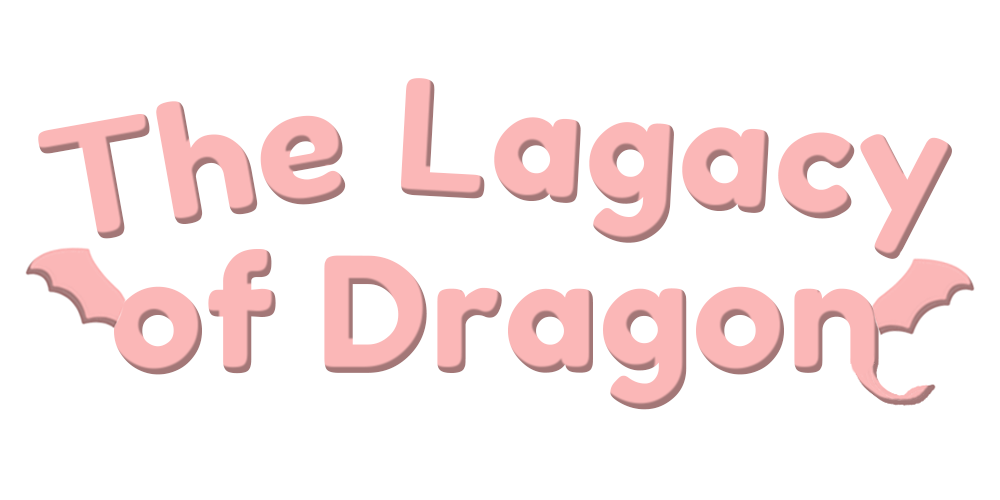
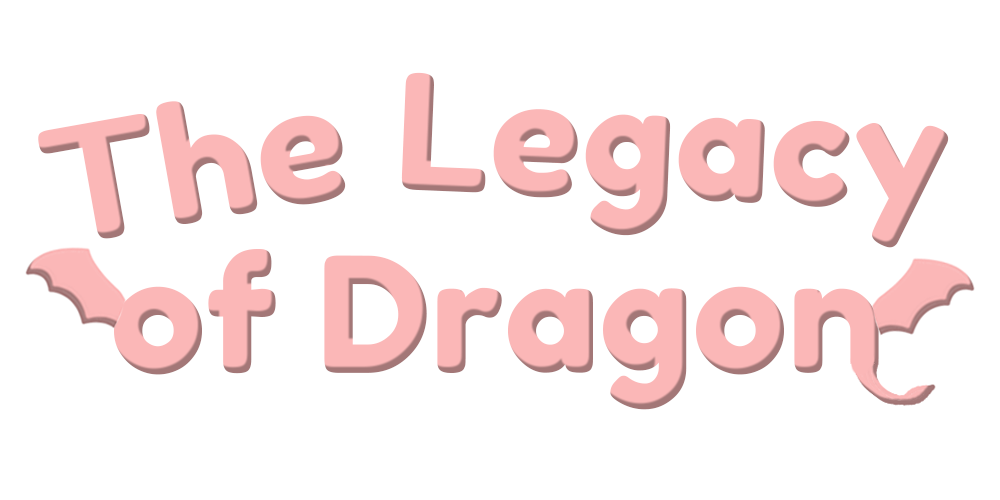
메인메뉴 색이랑 철자 그리고 게임오버 등등 수정함

Changed region(s): [[0.403, 0.21, 0.961, 0.54], [0.403, 0.15, 0.434, 0.18]]

diff --git a/Lagacy_of_Dragon/Main_menu.cpp b/Lagacy_of_Dragon/Main_menu.cpp
@@ -1,27 +1,27 @@
 #include "Main_menu.h"
 
 void Main_menu::main_UI() {
-	clear_background(255);
+	clear_background(HexColor{0xffcf69ff});
 	draw_image(Title, title_x, title_y);
 
 	apply_scale(0.5);
 	draw_image(Gameplay_button, mainmenu_x, gameplay_y);
-	draw_image(Setting_button, mainmenu_x, setting_y);
+	draw_image(Howtoplay_button, mainmenu_x, setting_y);
 	draw_image(Credit_button, mainmenu_x, credit_y);
 	draw_image(Exit_button, mainmenu_x, exit_y);
 }
 
 bool Main_menu::is_gameplay() {
-	return (get_mouse_x() > click_mainmenu_x && get_mouse_x() < click_mainmenu_x + click_gap_x && get_mouse_y() > click_gameplay_y && get_mouse_y() < click_gameplay_y + click_gap_y) && MouseIsPressed;
+	return (get_mouse_x() > click_mainmenu_x && get_mouse_x() < click_mainmenu_x + click_gap_x && get_mouse_y() > click_gameplay_y && get_mouse_y() < click_gameplay_y + click_gap_y);
 }
 bool Main_menu::is_setting() {
-	return (get_mouse_x() > click_mainmenu_x && get_mouse_x() < click_mainmenu_x + click_gap_x && get_mouse_y() > click_setting_y && get_mouse_y() < click_setting_y + click_gap_y) && MouseIsPressed;
+	return (get_mouse_x() > click_mainmenu_x && get_mouse_x() < click_mainmenu_x + click_gap_x && get_mouse_y() > click_setting_y && get_mouse_y() < click_setting_y + click_gap_y);
 }
 bool Main_menu::is_credit() {
-	return (get_mouse_x() > click_mainmenu_x && get_mouse_x() < click_mainmenu_x + click_gap_x && get_mouse_y() > click_credit_y && get_mouse_y() < click_credit_y + click_gap_y) && MouseIsPressed;
+	return (get_mouse_x() > click_mainmenu_x && get_mouse_x() < click_mainmenu_x + click_gap_x && get_mouse_y() > click_credit_y && get_mouse_y() < click_credit_y + click_gap_y);
 }
 bool Main_menu::is_exit() {
-	return (get_mouse_x() > click_mainmenu_x && get_mouse_x() < click_mainmenu_x + click_gap_x && get_mouse_y() > click_exit_y && get_mouse_y() < click_exit_y + click_gap_y) && MouseIsPressed;
+	return (get_mouse_x() > click_mainmenu_x && get_mouse_x() < click_mainmenu_x + click_gap_x && get_mouse_y() > click_exit_y && get_mouse_y() < click_exit_y + click_gap_y);
 }
 void Main_menu::in_setting()
 {

diff --git a/Lagacy_of_Dragon/main.cpp b/Lagacy_of_Dragon/main.cpp
@@ -162,6 +162,9 @@ int main()
 		scene_timer += DeltaTime;
 		boss3_timers += DeltaTime;
 		update_window();
+
+		cout << "x:" << get_mouse_x() << endl;
+		cout << "y:" << get_mouse_y() << endl;
 	
 		//Game_start
 		//DIGIEPN LOGO
@@ -189,24 +192,34 @@ int main()
 		{
 			main_menu.main_UI();
 
+
 			//Gameplay
 			if (main_menu.is_gameplay())
 			{
+				draw_image(Gameplay_button_on, mainmenu_x, gameplay_y);
+				if (MouseIsPressed)
 				scene = 6;
 			}
 			//Settings
 			if (main_menu.is_setting())
 			{
+				draw_image(Howtoplay_button_on, mainmenu_x, setting_y);
+				if (MouseIsPressed)
 				scene = 3;
 			}
 			//Credits
 			if (main_menu.is_credit())
 			{
+				draw_image(Credit_button_on, mainmenu_x, credit_y);
+				if (MouseIsPressed)
 				scene = 4;
 			}
 			//Exit
 			if (main_menu.is_exit())
 			{
+
+				draw_image(Exit_button_on, mainmenu_x, exit_y);
+				if (MouseIsPressed)
 				scene = 5;
 			}
 		}
@@ -878,7 +891,6 @@ int main()
 			interaction.storm_enemy_interaction(enemys_1_1, storm);
 			interaction.bomb_enemy_interaction(enemys_1_1, bombs);
 			interaction.breath_enemy_interaction(enemys_1_1, breath, player);
-
 
 			//Bullets
 			if (weapon_choice == 0)

diff --git a/Lagacy_of_Dragon/UIsetting.h b/Lagacy_of_Dragon/UIsetting.h
@@ -116,7 +116,7 @@ const Image howtoplay3{ "howtoplay/howtoplay3.png" };
 const Image howtoplay4{ "howtoplay/howtoplay4.png" };
 const Image howtoplay5{ "howtoplay/howtoplay5.png" };
 
-const Image Game_over{ "UIdesign/finish.png" };
+const Image Game_over{ "UIdesign/finish.jpg" };
 const Image Home{ "UIdesign/home.png" };
 const Image Retry{ "UIdesign/retry.png" };
 
@@ -131,7 +131,7 @@ struct UIsetting
 	void roulette_six(std::vector<int> sixboxloc);
 	void weaponChoice(vector<Shooting*>& bullets, vector<IceWeapon*>& ice, vector<BombWeapon*>& bombs, vector<Storm*>& storm, vector<Approach*>& approach, vector<BackWeapon*>& knockback, vector<BreathWeapon*>& breath, vector<Meteor*>& meteor, Player* player);
 	void howtoplay(int* scene);
-	void gameover();
+	void gameover(int* scene);
 };
 extern UIsetting uisetting;
 #endif

diff --git a/Lagacy_of_Dragon/UIsetting.cpp b/Lagacy_of_Dragon/UIsetting.cpp
@@ -585,7 +585,25 @@ void UIsetting::howtoplay(int* scene) {
 	pop_settings();
 }
 
-void UIsetting::gameover()
+void UIsetting::gameover(int* scene)
 {
+	clear_background(255);
+	push_settings();
+	set_image_mode(RectMode::Center);
+	draw_image(Game_over, Width / 2, Height / 2, Width, Height);
+	apply_scale(0.5);
+	draw_image(Home, 1500, 1150);
+	draw_image(Retry, 1500, 1350);
+	pop_settings();
+
+	if (!MouseIsPressed) {
+		not_click = true;
+	}
+
+	if ((get_mouse_x() > 600 && get_mouse_x() < 900 && get_mouse_y() > 540 && get_mouse_y() < 610) && (MouseIsPressed && not_click)) {
+		*scene = 2;
+	} else if ((get_mouse_x() > 600 && get_mouse_x() < 900 && get_mouse_y() > 640 && get_mouse_y() < 710) && (MouseIsPressed && not_click)) {
+		*scene = 6;
+	}
 
 }

diff --git a/Lagacy_of_Dragon/Main_menu.h b/Lagacy_of_Dragon/Main_menu.h
@@ -34,6 +34,8 @@ const Image Setting_button{ "UIdesign/Setting.png" };
 const Image Setting_button_on{ "UIdesign/Settingon.png" };
 const Image Exit_button{ "UIdesign/Exit.png" };
 const Image Exit_button_on{ "UIdesign/Exiton.png" };
+const Image Howtoplay_button{ "UIdesign/HTP.png" };
+const Image Howtoplay_button_on{ "UIdesign/HTPon.png" };
 
 struct Main_menu {
 	void main_UI();

diff --git a/Lagacy_of_Dragon/Window_setting.h b/Lagacy_of_Dragon/Window_setting.h
@@ -5,7 +5,7 @@
 using namespace doodle;
 
 
-inline int scene = 19;
+inline int scene = 1;
 
 
 struct Window_setting {
